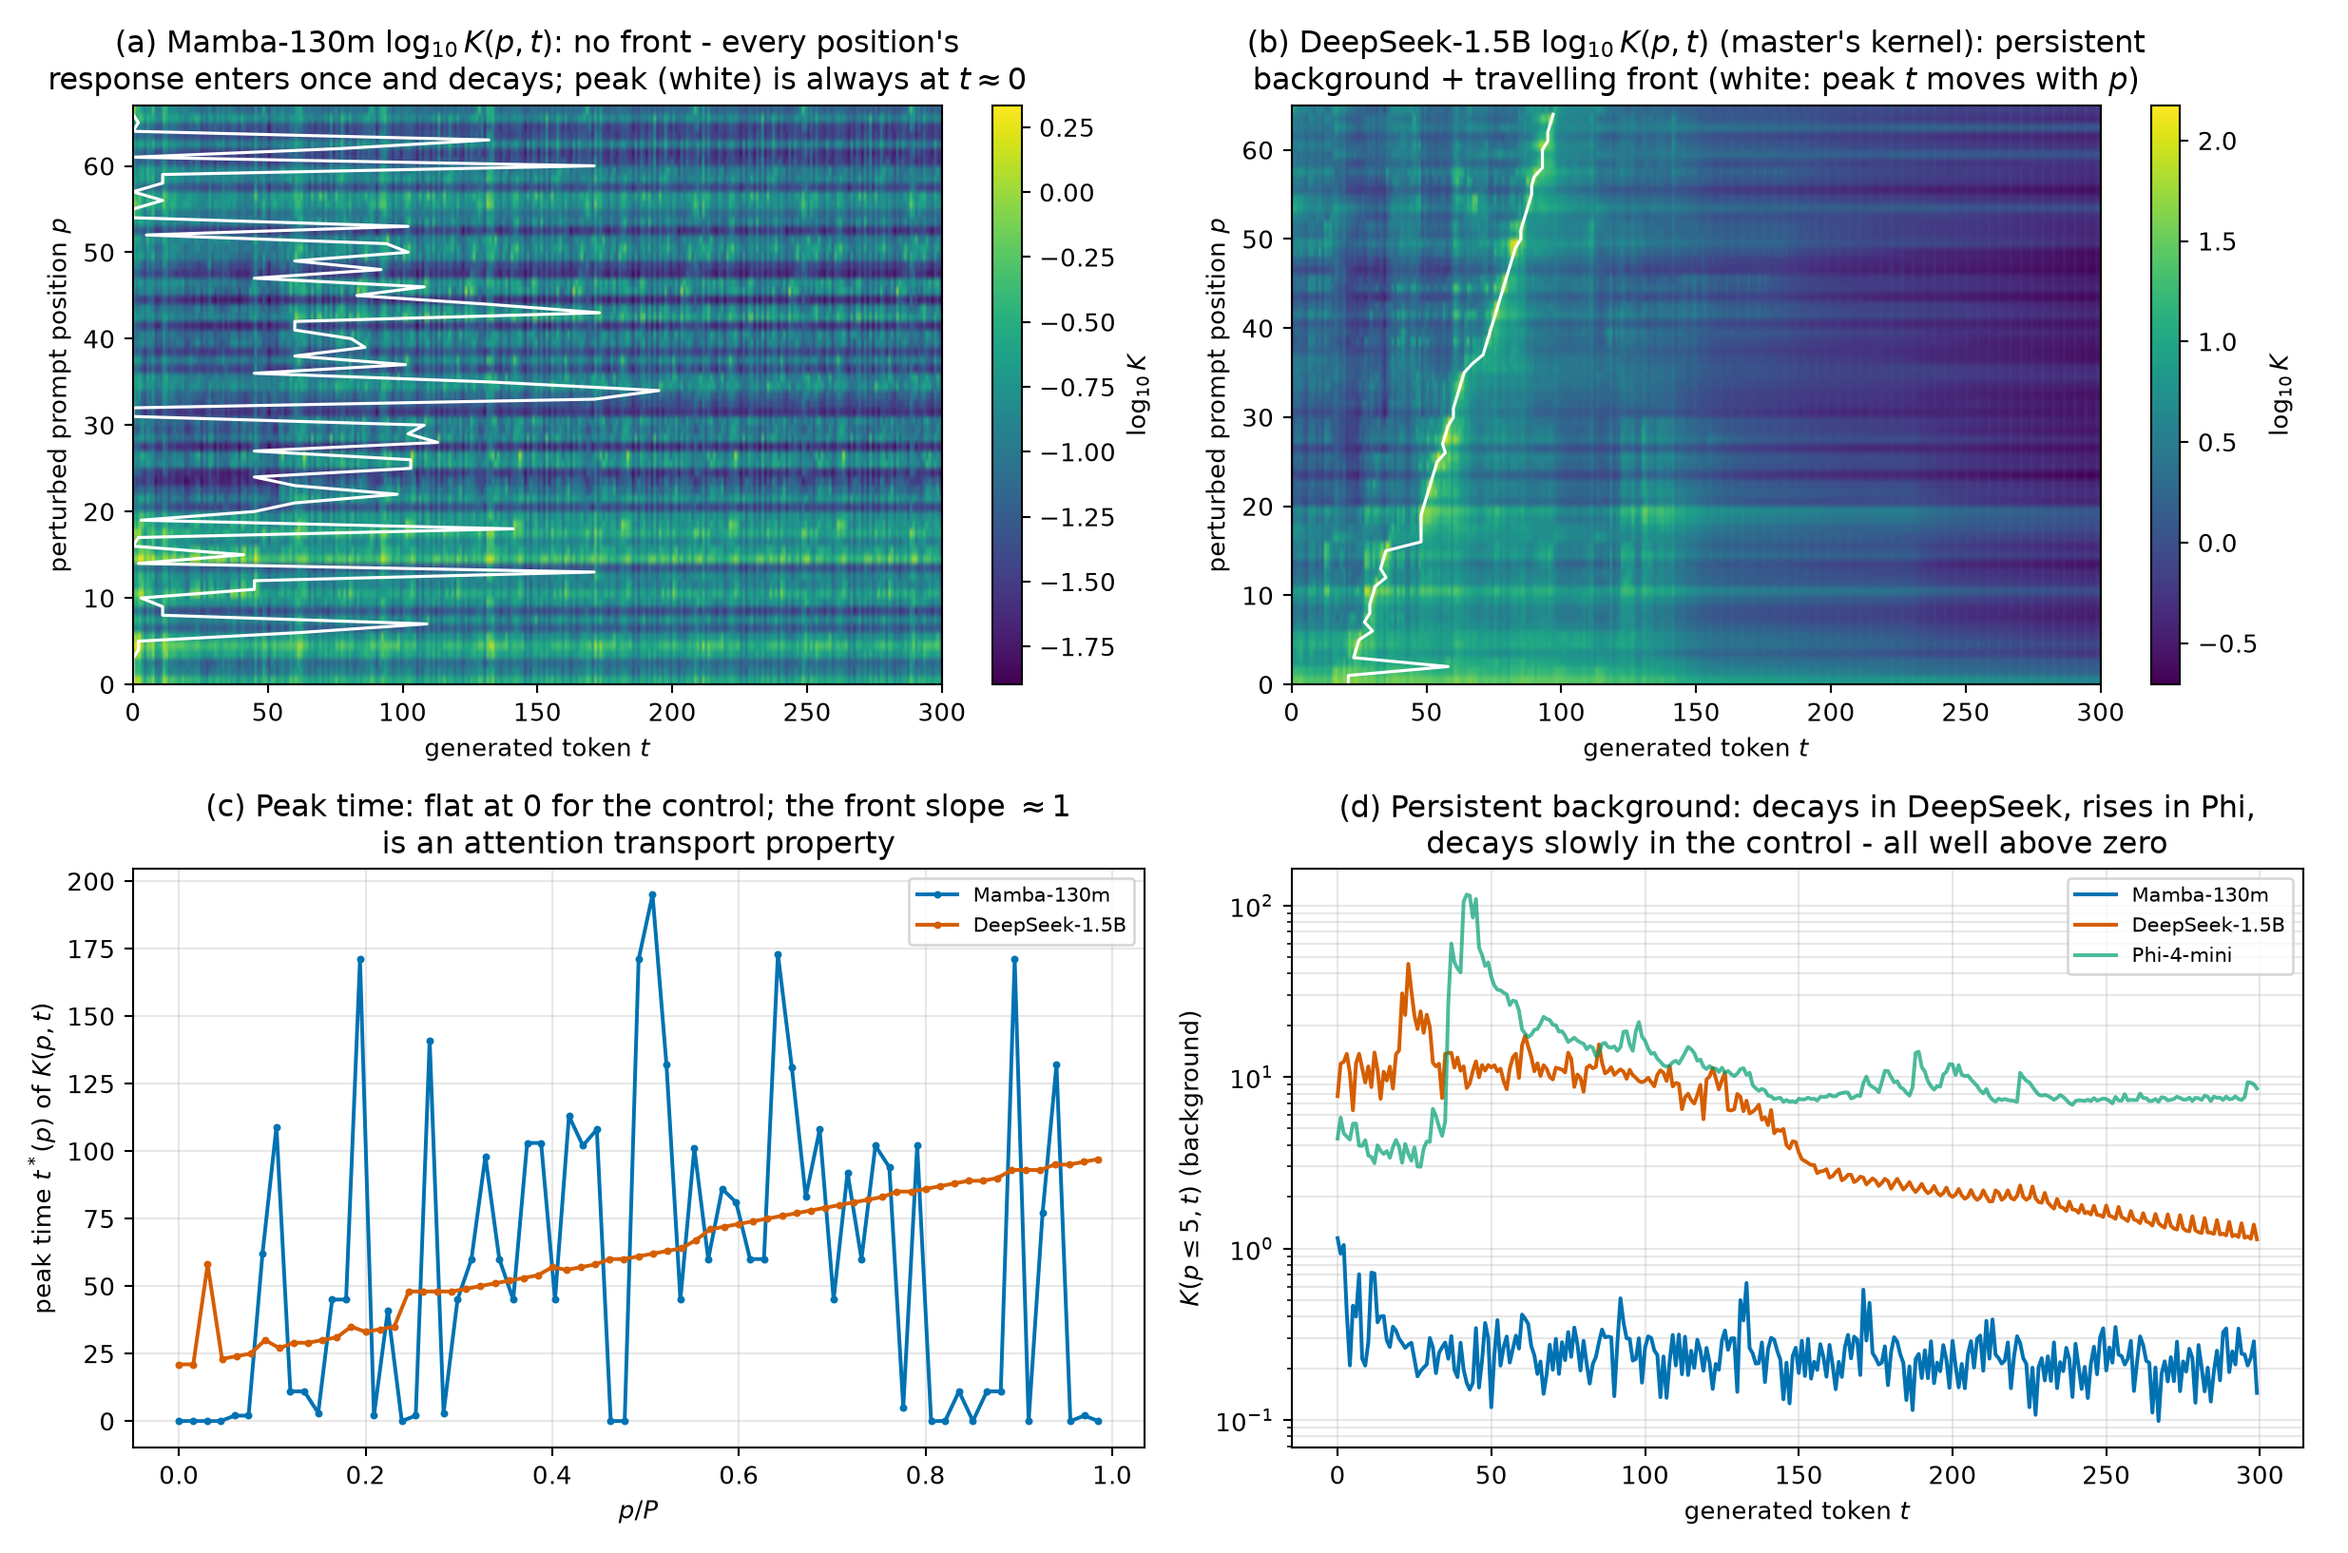
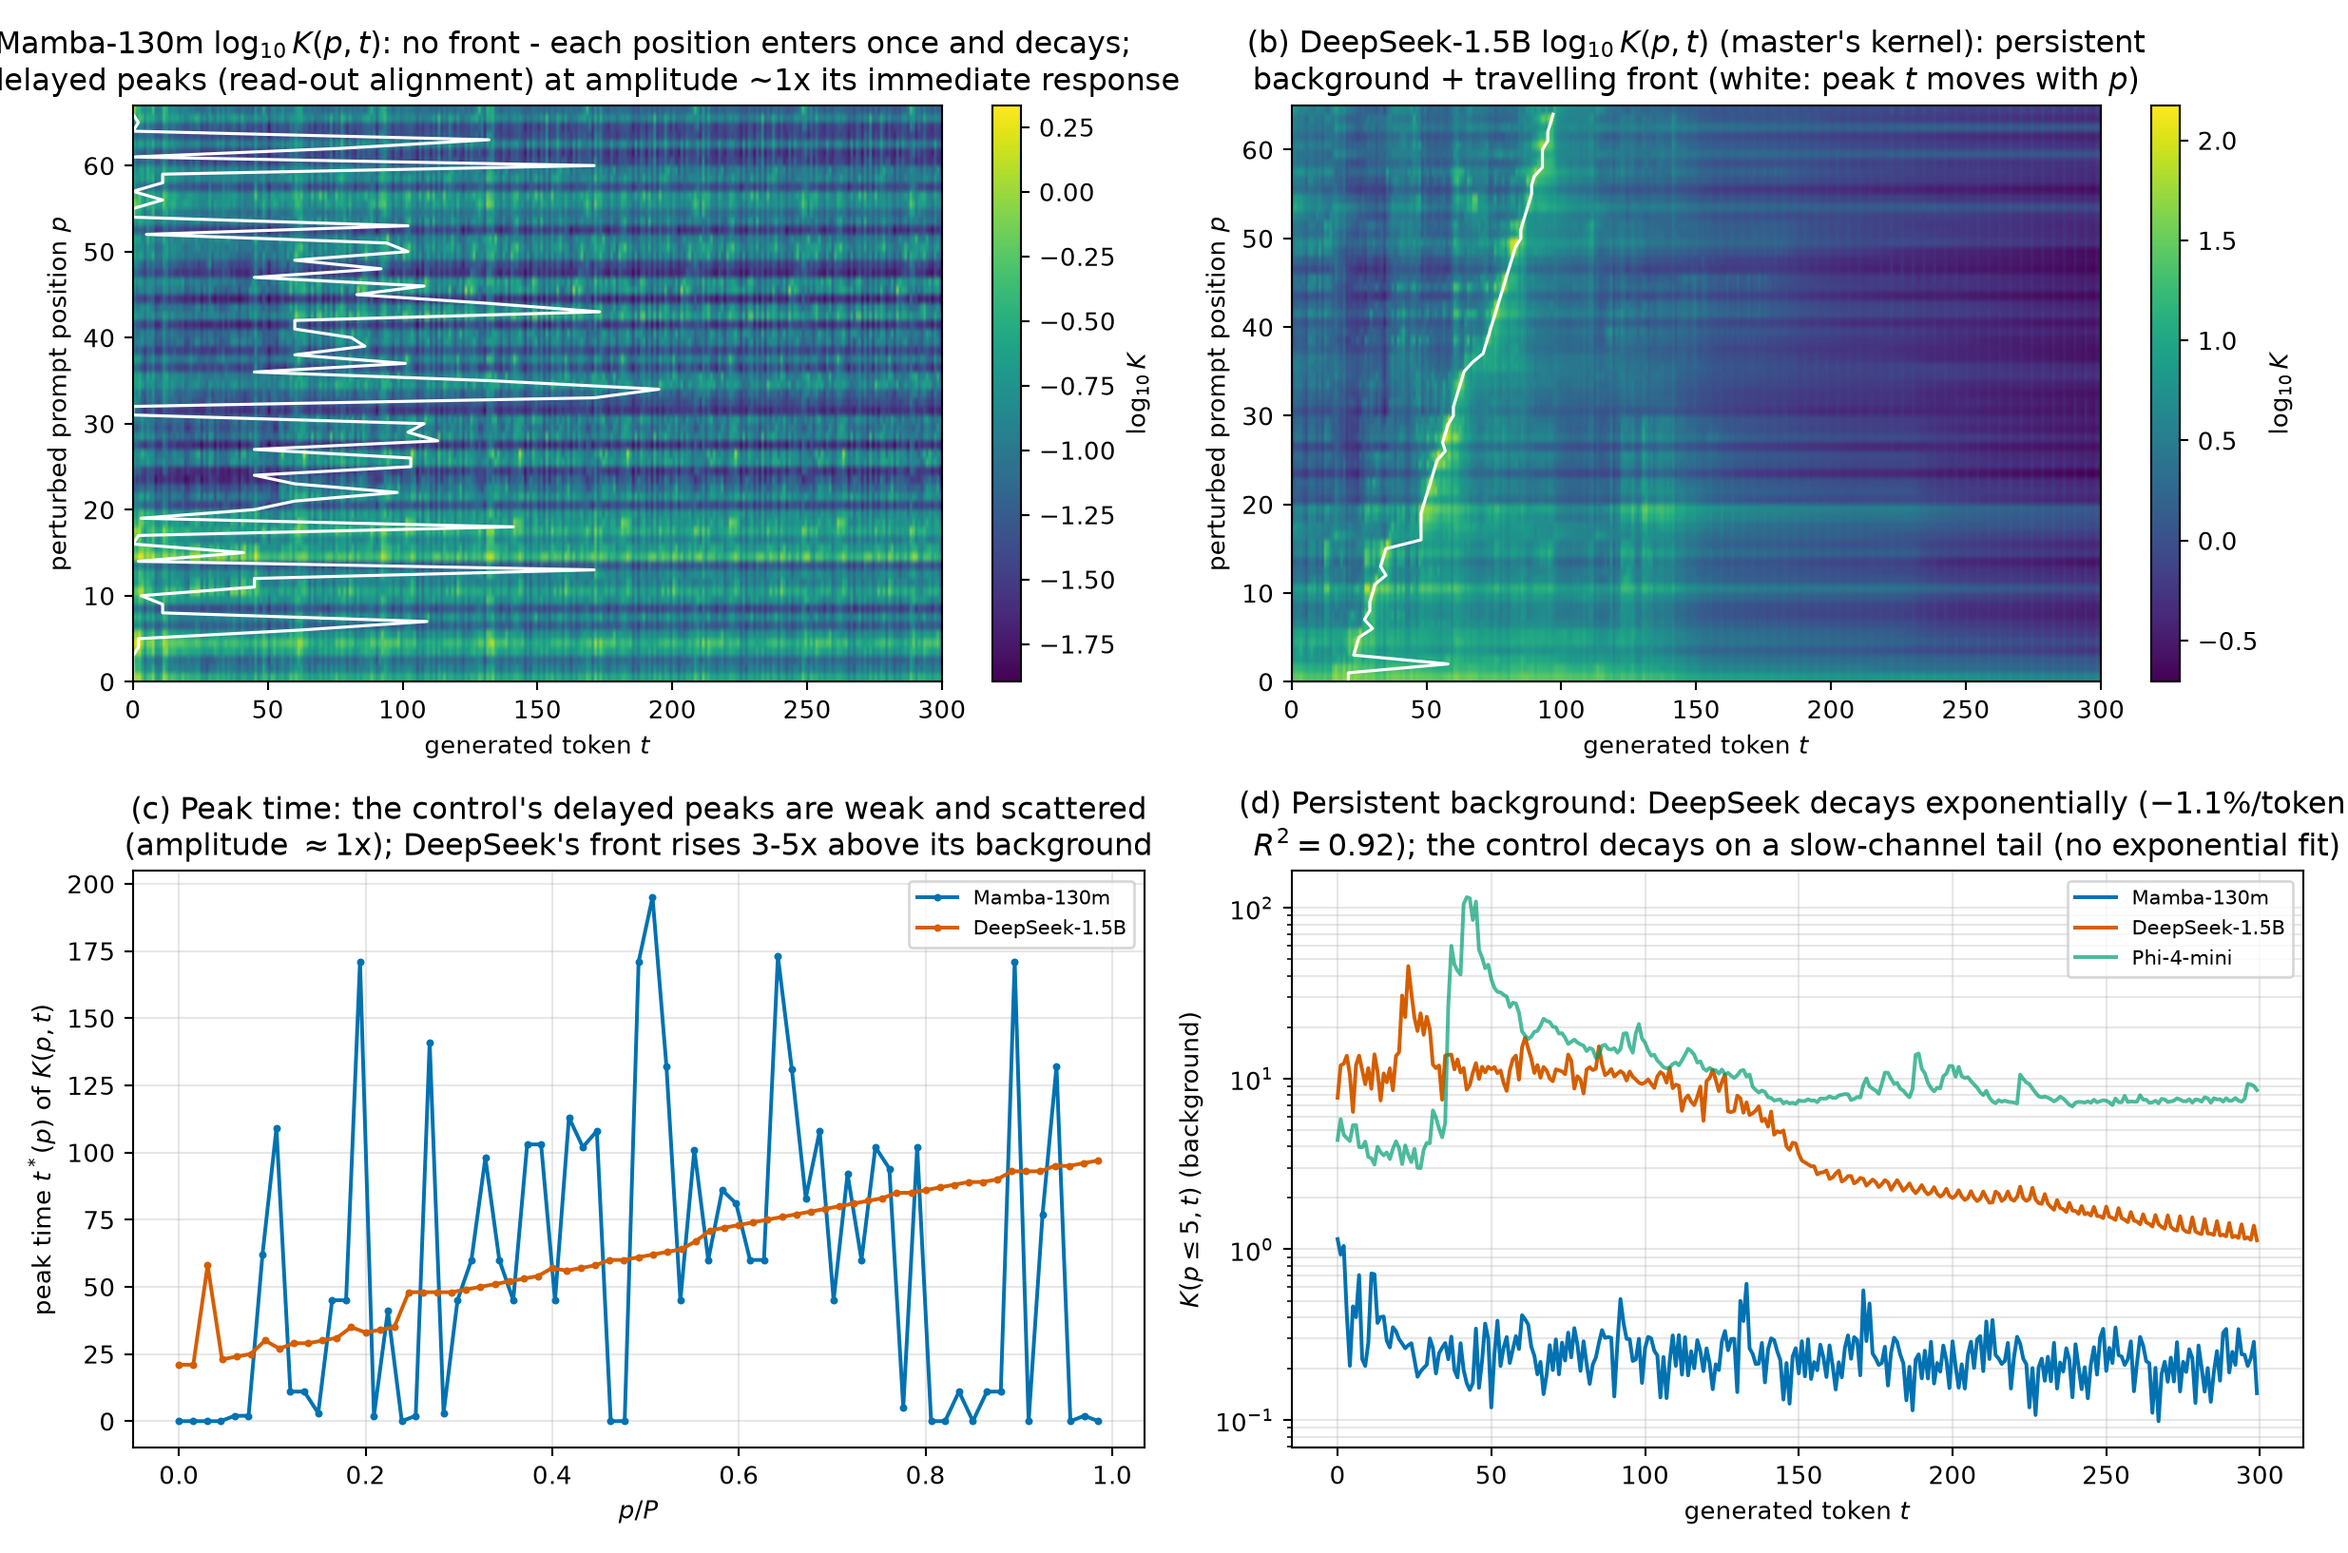
controls: kernel comparison refined (weak delayed peaks in control, exponential-vs-tail background laws); Part 8 text

diff --git a/scripts/ctrl_fig_kernel.py b/scripts/ctrl_fig_kernel.py
@@ -38,7 +38,7 @@ im = ax.imshow(np.log10(np.maximum(Kmam, 1e-6)), aspect="auto", origin="lower",
 ax.plot(Kmam.argmax(axis=1), np.arange(Pm), "w-", lw=1.2)
 ax.set_xlabel(r"generated token $t$")
 ax.set_ylabel(r"perturbed prompt position $p$")
-ax.set_title("(a) Mamba-130m $\\log_{10}K(p,t)$: no front - every position's\nresponse enters once and decays; peak (white) is always at $t\\approx0$")
+ax.set_title("(a) Mamba-130m $\\log_{10}K(p,t)$: no front - each position enters once and decays;\nweak delayed peaks (read-out alignment) at amplitude ~1x its immediate response")
 plt.colorbar(im, ax=ax, label=r"$\log_{10}K$")
 
 ax = axs[0, 1]
@@ -56,7 +56,7 @@ ax.plot(np.arange(Pm) / Pm, Kmam.argmax(axis=1), "o-", ms=2, color=C_MAM, label=
 ax.plot(np.arange(Pd) / Pd, Kds.argmax(axis=1), "o-", ms=2, color=C_DS, label="DeepSeek-1.5B")
 ax.set_xlabel(r"$p/P$")
 ax.set_ylabel(r"peak time $t^*(p)$ of $K(p,t)$")
-ax.set_title("(c) Peak time: flat at 0 for the control; the front slope $\\approx1$\nis an attention transport property")
+ax.set_title("(c) Peak time: the control's delayed peaks are weak and scattered\n(amplitude $\\approx$1x); DeepSeek's front rises 3-5x above its background")
 ax.legend(fontsize=8); ax.grid(alpha=0.3)
 
 ax = axs[1, 1]
@@ -69,7 +69,7 @@ ax.semilogy(np.arange(len(bgd)), bgd, color=C_DS, label="DeepSeek-1.5B")
 ax.semilogy(np.arange(len(bgp)), bgp, color=C_PHI, alpha=0.7, label="Phi-4-mini")
 ax.set_xlabel(r"generated token $t$")
 ax.set_ylabel(r"$K(p\leq5,t)$ (background)")
-ax.set_title("(d) Persistent background: decays in DeepSeek, rises in Phi,\ndecays slowly in the control - all well above zero")
+ax.set_title("(d) Persistent background: DeepSeek decays exponentially ($-1.1\\%$/token,\n$R^2=0.92$); the control decays on a slow-channel tail (no exponential fit)")
 ax.legend(fontsize=8); ax.grid(alpha=0.3, which="both")
 fig.tight_layout(); fig.savefig(os.path.join(OUT, "c8_kernel.png"), dpi=190); plt.close(fig)
 

diff --git a/notebook/controls.md b/notebook/controls.md
@@ -541,14 +541,19 @@ completes — see the figure.)*
 The master's transport kernel $K(p,t)$ replicated on the control (same
 $r=0.1$, 8 directions, teacher-forced, last layer):
 
-- **Mamba has no travelling front**: the peak of $K(p,t)$ is at $t\approx0$
-  for every position (panel a vs b; panel c) — each prompt position enters
-  the state once and decays. DeepSeek's front (peak $t=21$ at $p=0$ →
-  $97$ at $p=64$, slope ≈ 1) is reproduced from the master's own data.
-- **The persistent background exists in both**: first-positions response
-  decays $12\to1.1$ (DeepSeek), $0.93\to0.14$ (Mamba), with Phi's rise in
-  between. Long-lived influence is *not* attention-specific; its
-  *re-amplification into later tokens* is.
+- **Mamba has no travelling front**: the front peak amplitude (max over $t$
+  of $K(p,t)$) is $1.0$–$1.2$ for every position — comparable to its
+  immediate response — while DeepSeek's front peaks at $13$–$53$ above a
+  background of $10$–$1$. The control does show *weak* delayed peaks
+  ($t^*\approx41$–$171$ for interior positions): the perturbed state
+  channels are read out most strongly at particular continuation tokens —
+  the same "amplification gate" phenomenon master reports, but at
+  $\approx1\times$ amplitude instead of $3$–$5\times$.
+- **The persistent background exists in both, with different laws**:
+  DeepSeek's decays exponentially ($-1.1\%$/token, $R^2=0.92$; master:
+  $-0.74\%$, $R^2=0.81$), the control's decays on a slow-channel tail that
+  is *not* exponential (flat $0.30\to0.14$). Long-lived influence is not
+  attention-specific; its *re-amplification* is.
 
 ![superposition](figures_controls/c8_superposition.png)
 
